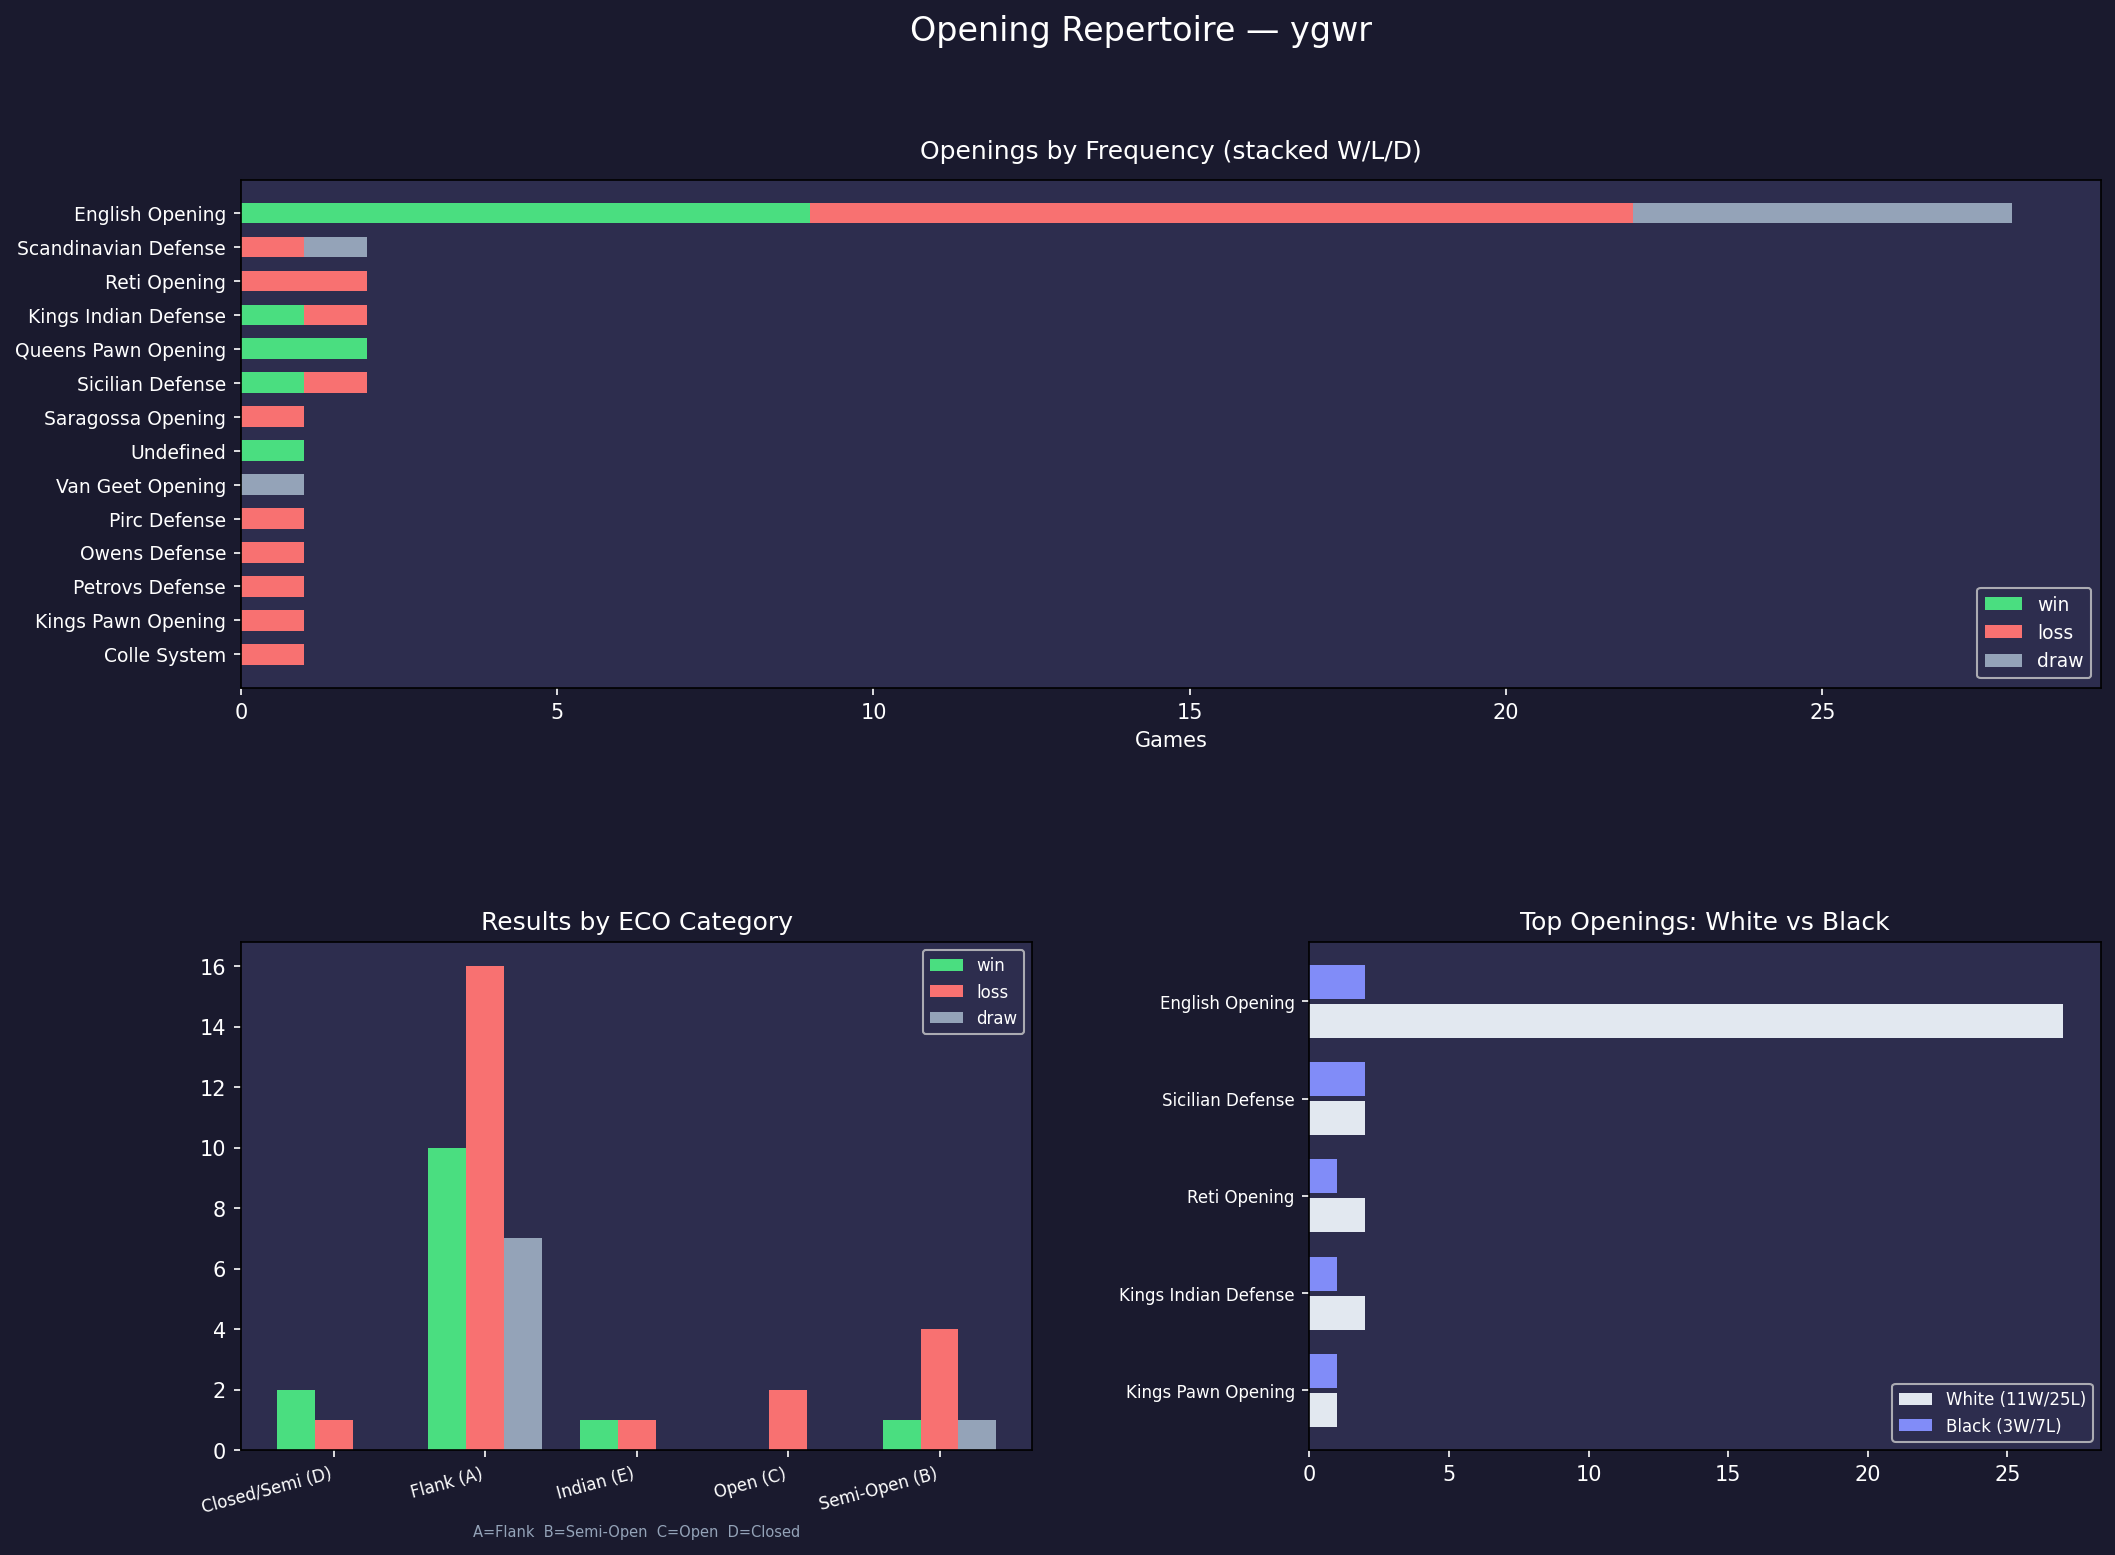
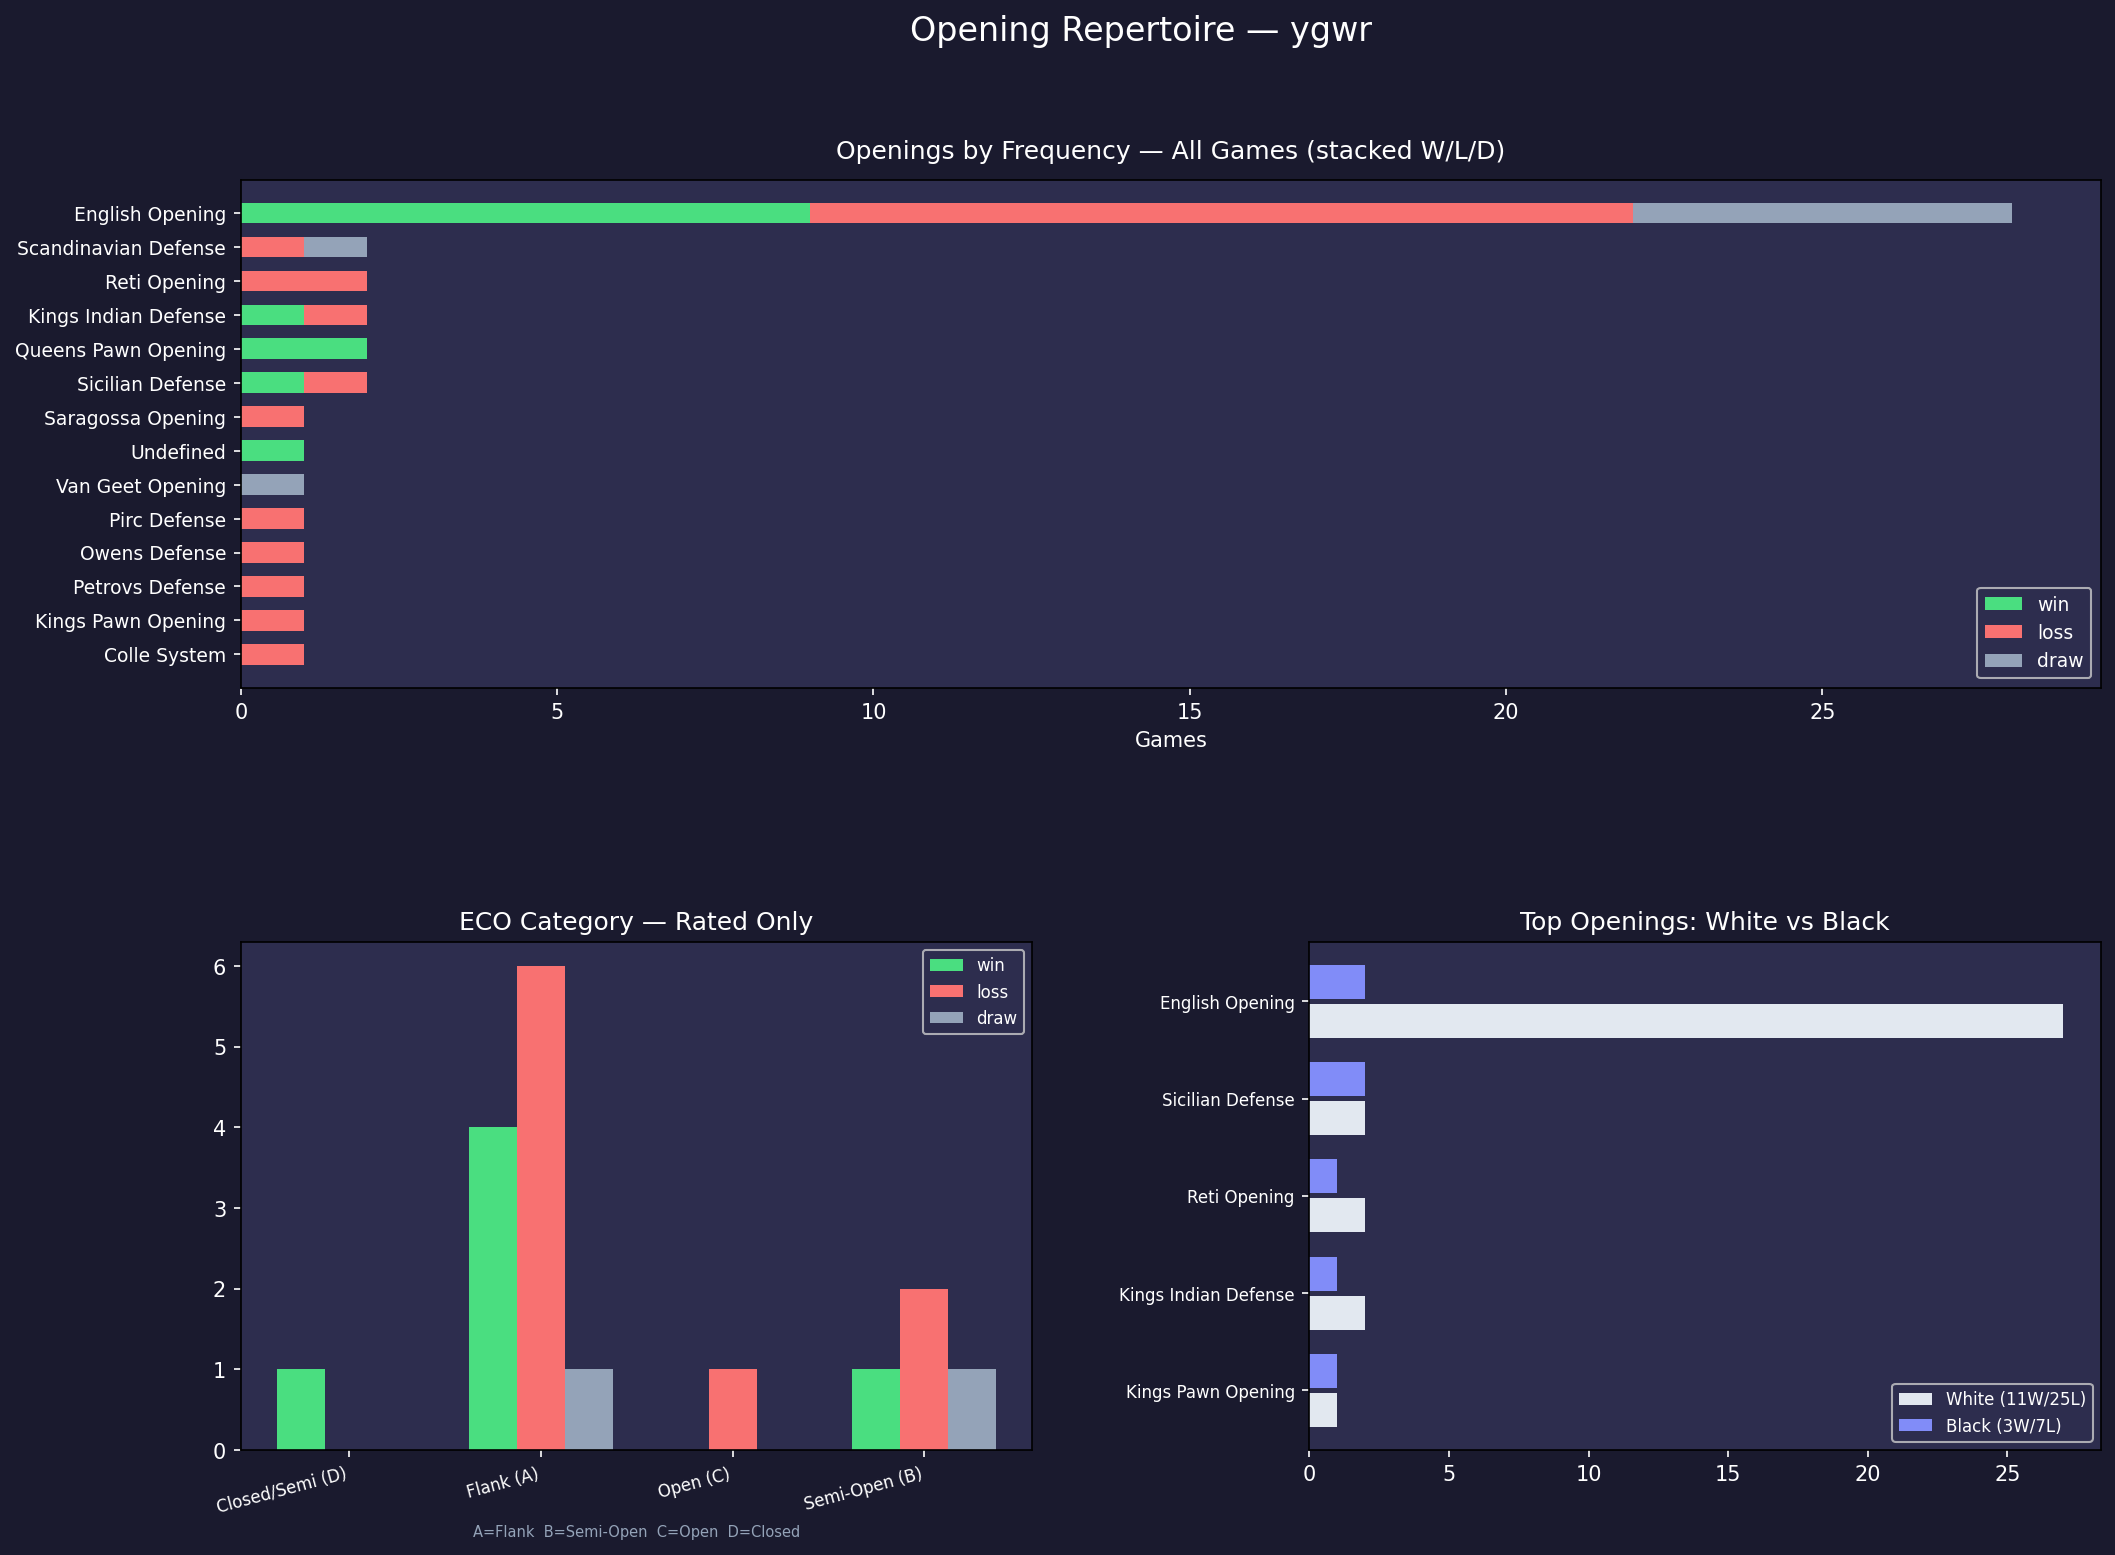
feat: separate rated/unrated in openings analysis
ECO category panel now shows rated games only.
print_summary shows two tables: all games + rated-only.
Rated data (17 games): English Opening 38% win rate,
Flank openings (A) dominate competitive games at 64%.

diff --git a/analysis/openings.py b/analysis/openings.py
@@ -108,16 +108,17 @@ def plot_openings(df):
 
     ax1.set_yticks(list(y))
     ax1.set_yticklabels(family_counts.index, color="white", fontsize=9)
-    ax1.set_title("Openings by Frequency (stacked W/L/D)", color="white", pad=10)
+    ax1.set_title("Openings by Frequency — All Games (stacked W/L/D)", color="white", pad=10)
     ax1.legend(facecolor="#2d2d4e", labelcolor="white", fontsize=9, loc="lower right")
     ax1.set_facecolor("#2d2d4e")
     ax1.tick_params(colors="white")
     ax1.set_xlabel("Games", color="white")
 
-    # --- 2. ECO category breakdown ---
+    # --- 2. ECO category breakdown (rated only) ---
     ax2 = fig.add_subplot(gs[1, 0])
 
-    cat_outcome = df.groupby(["eco_category", "outcome"]).size().unstack(fill_value=0)
+    rated_df = df[df["rated"]]
+    cat_outcome = rated_df.groupby(["eco_category", "outcome"]).size().unstack(fill_value=0)
     for col in ["win", "loss", "draw"]:
         if col not in cat_outcome.columns:
             cat_outcome[col] = 0
@@ -134,12 +135,11 @@ def plot_openings(df):
         )
     ax2.set_xticks([p + width for p in x])
     ax2.set_xticklabels(cat_outcome.index, color="white", fontsize=8, rotation=15, ha="right")
-    ax2.set_title("Results by ECO Category", color="white")
+    ax2.set_title("ECO Category — Rated Only", color="white")
     ax2.legend(facecolor="#2d2d4e", labelcolor="white", fontsize=8)
     ax2.set_facecolor("#2d2d4e")
     ax2.tick_params(colors="white")
 
-    # Add ECO category note
     note = "A=Flank  B=Semi-Open  C=Open  D=Closed"
     ax2.set_xlabel(note, color="#94a3b8", fontsize=7)
 
@@ -195,28 +195,37 @@ def plot_openings(df):
     plt.close()
 
 
-def print_summary(df):
-    print(f"\n{'='*50}")
-    print(f"  {USERNAME} -- Opening Repertoire")
-    print(f"{'='*50}")
-
-    family_stats = df.groupby("opening_family").agg(
+def _print_family_table(subset):
+    family_stats = subset.groupby("opening_family").agg(
         games=("outcome", "count"),
         wins=("outcome", lambda x: (x == "win").sum()),
         losses=("outcome", lambda x: (x == "loss").sum()),
         draws=("outcome", lambda x: (x == "draw").sum()),
     ).sort_values("games", ascending=False)
 
-    print(f"\n  {'Opening':<35} {'G':>3} {'W':>3} {'L':>3} {'D':>3} {'Win%':>5}")
+    print(f"  {'Opening':<35} {'G':>3} {'W':>3} {'L':>3} {'D':>3} {'Win%':>5}")
     print(f"  {'-'*55}")
     for name, row in family_stats.iterrows():
         pct = row.wins / row.games * 100 if row.games > 0 else 0
         marker = " *" if row.games >= 3 else ""
         print(f"  {name:<35} {int(row.games):>3} {int(row.wins):>3} {int(row.losses):>3} {int(row.draws):>3} {pct:>4.0f}%{marker}")
+    print(f"  * = 3+ games (statistically meaningful)")
 
-    print(f"\n  * = 3+ games (statistically meaningful)")
-    print(f"\n  ECO category breakdown:")
-    for cat, group in df.groupby("eco_category"):
+
+def print_summary(df):
+    print(f"\n{'='*50}")
+    print(f"  {USERNAME} -- Opening Repertoire (all {len(df)} games)")
+    print(f"{'='*50}\n")
+    _print_family_table(df)
+
+    rated = df[df["rated"]]
+    print(f"\n{'='*50}")
+    print(f"  Rated games only ({len(rated)} games)")
+    print(f"{'='*50}\n")
+    _print_family_table(rated)
+
+    print(f"\n  ECO category breakdown (rated only):")
+    for cat, group in rated.groupby("eco_category"):
         w = (group["outcome"] == "win").sum()
         total = len(group)
         print(f"    {cat:<20} {total:>3} games  {w/total*100:.0f}% win rate")
